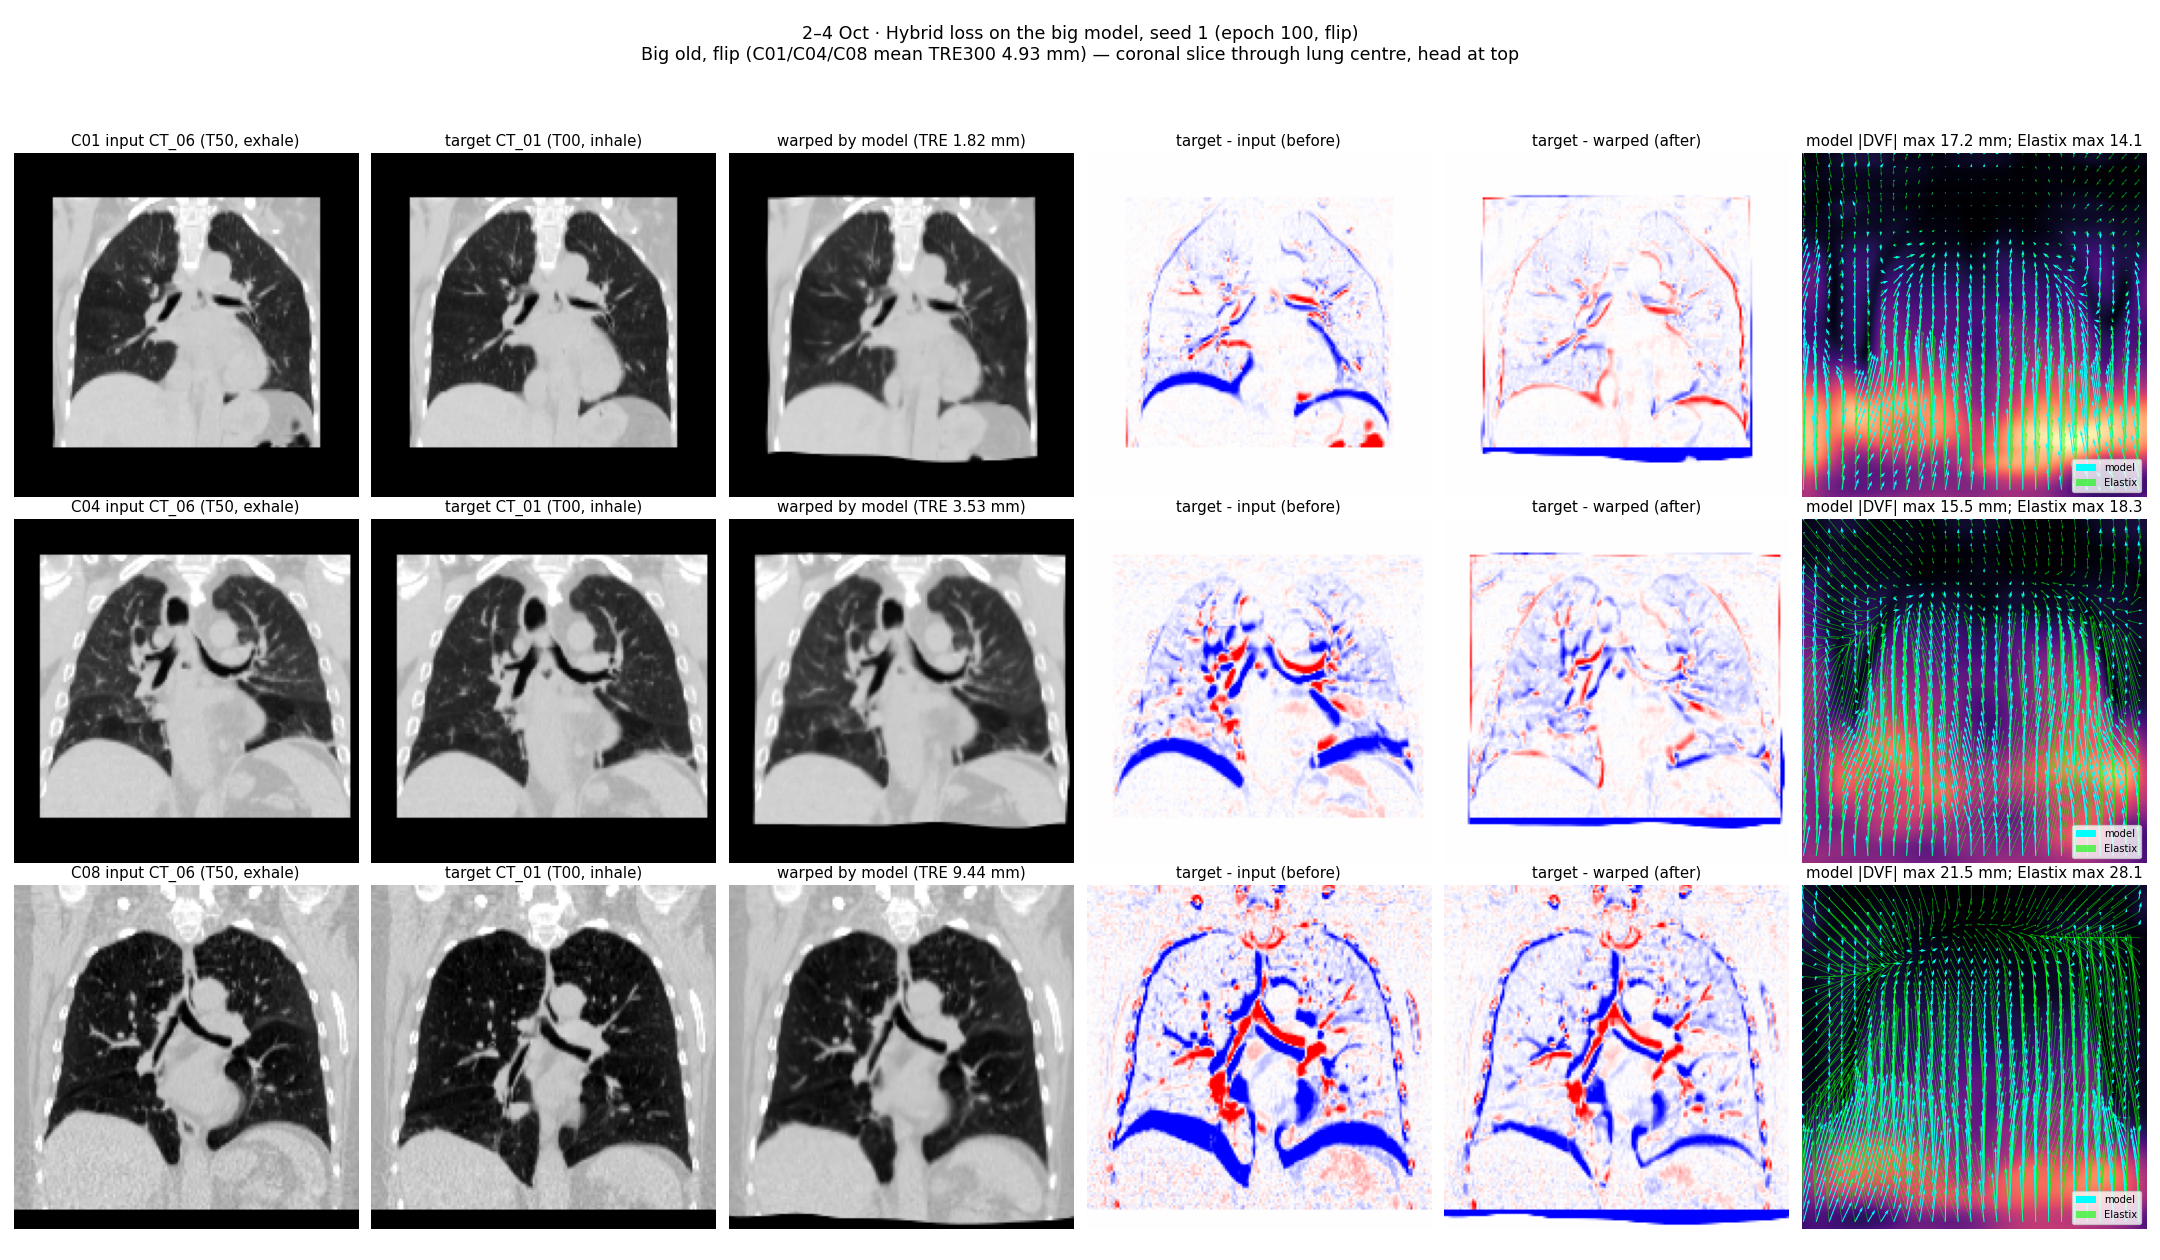
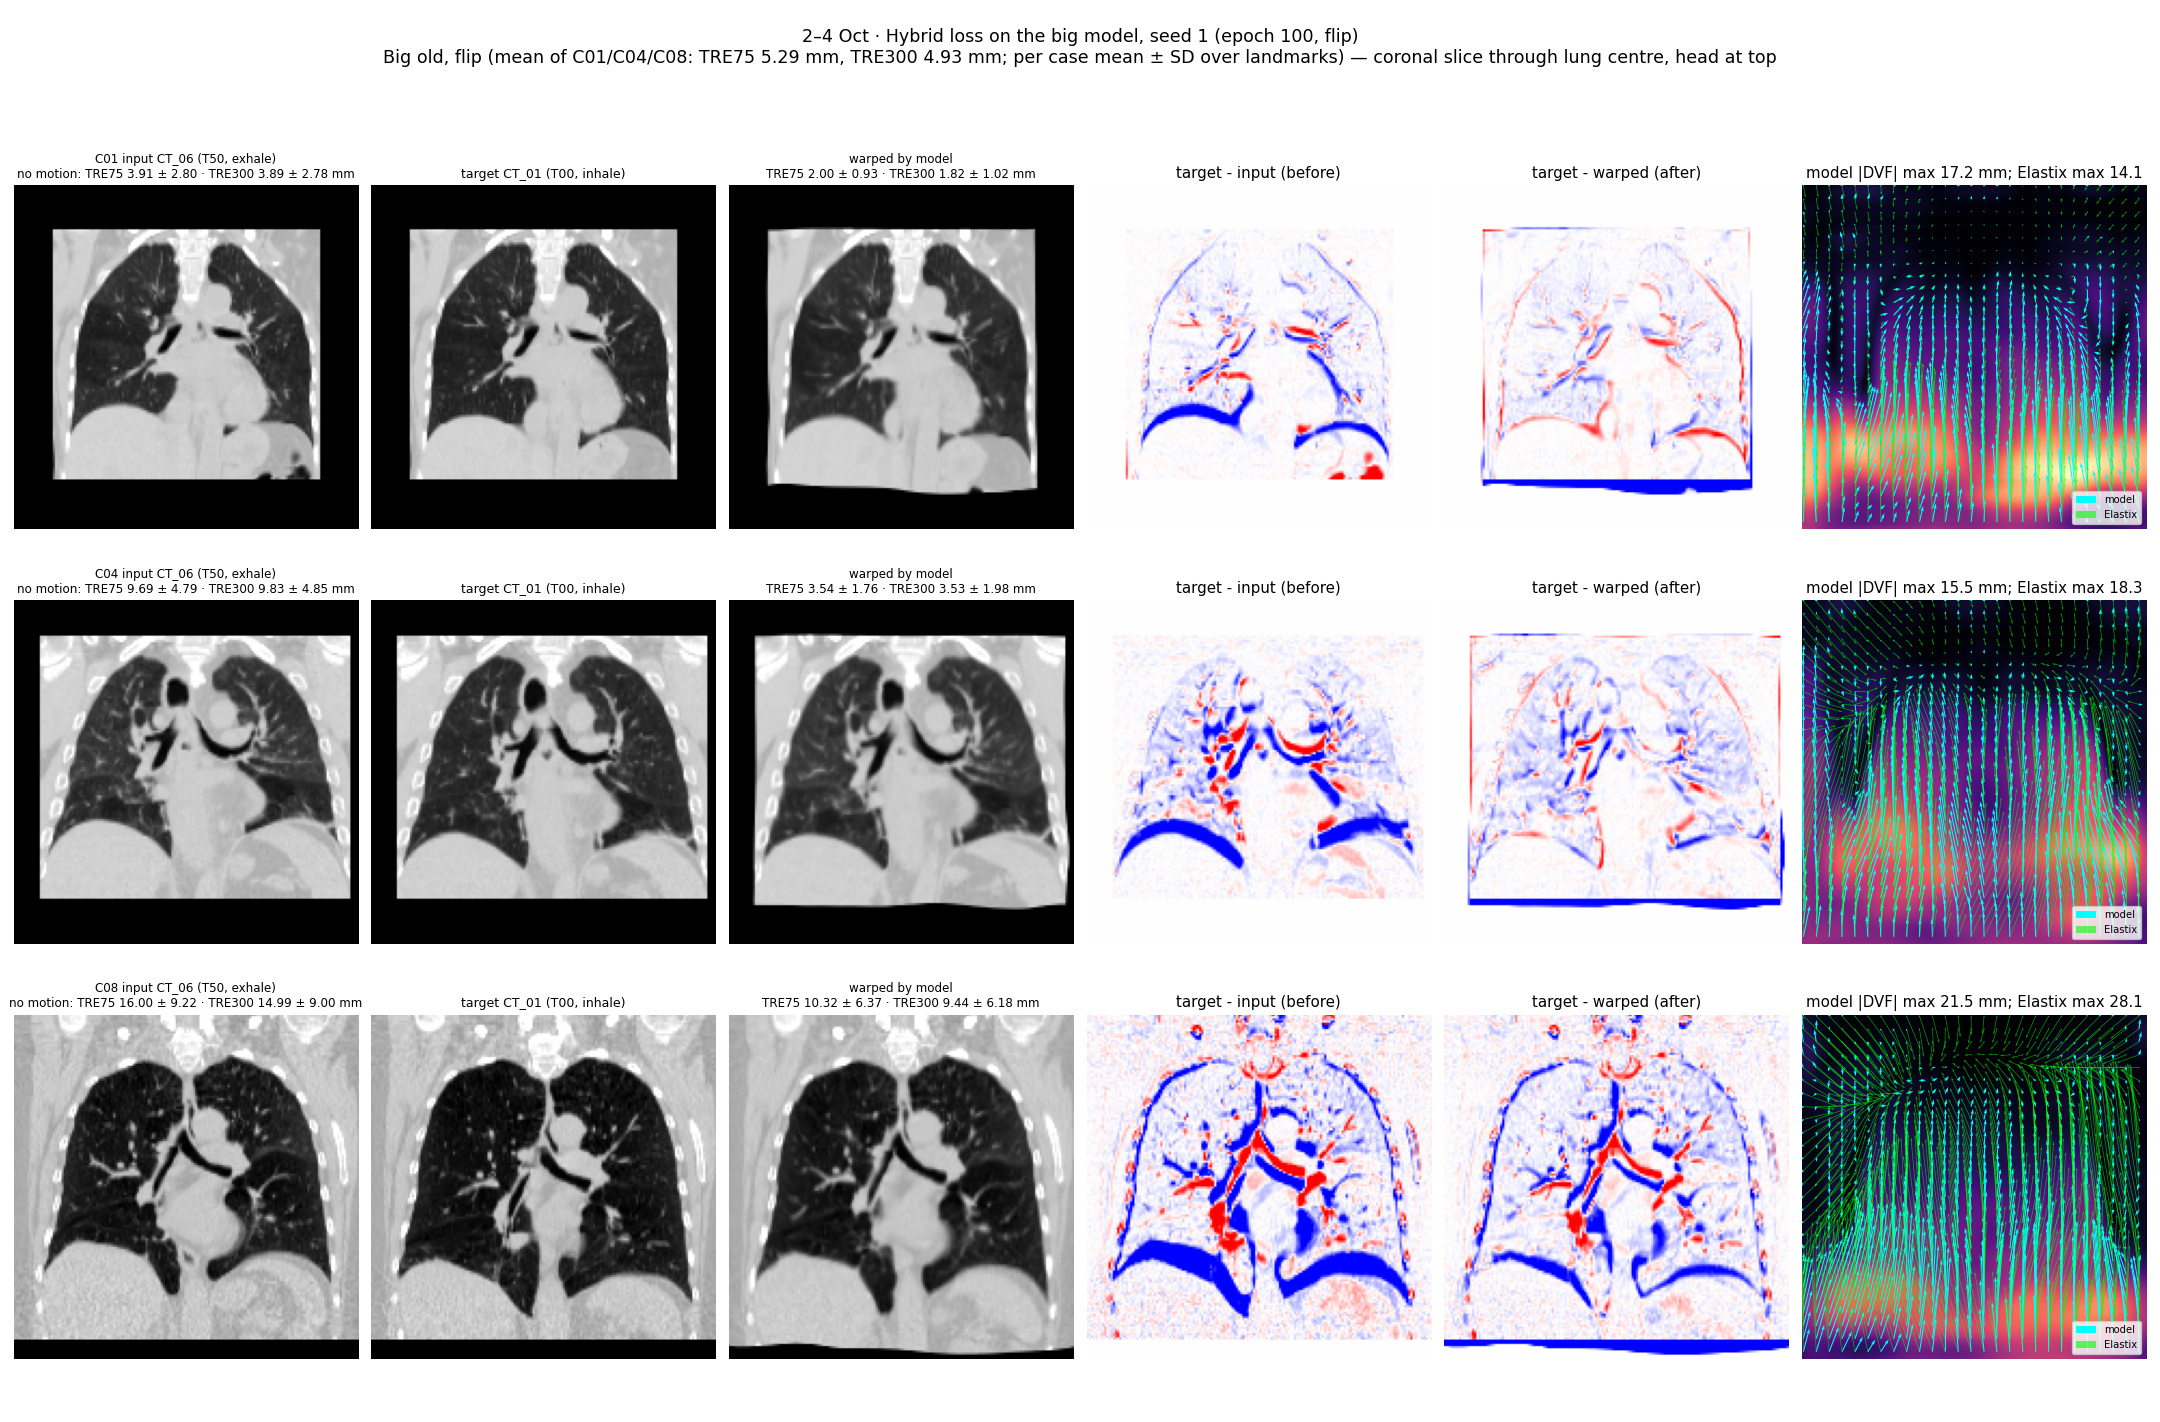
Slides: TRE75 and TRE300 (mean ± SD) on timeline figures and tables

diff --git a/DIR EXPERIMENTS/slides/make_timeline_figs.py b/DIR EXPERIMENTS/slides/make_timeline_figs.py
@@ -68,7 +68,7 @@ def load_cases():
         reg = binary_dilation(p["lung_iso"], iterations=5)
         z = int(np.round(np.where(p["hu_iso"] < -400)[0].mean()))  # same slice rule as slide 5b (explain_figs.py)
         D[c] = {"p": p, "t00": t00, "reg": reg, "z": z, "el": v2.elastix_on_iso(p),
-                "tre0": v2.score_set(np.zeros((*p["hu_iso"].shape, 3), np.float32), c, "300", p)["registered"]["mean"]}
+                "tre0": tre(np.zeros((*p["hu_iso"].shape, 3), np.float32), c, p)}
     return D
 
 
@@ -89,16 +89,25 @@ def predict_all(D):
     return U
 
 
+def tre(u, c, p):
+    """{'75': (mean, sd), '300': (mean, sd)} in mm over the case's landmarks."""
+    return {k: (r["mean"], r["std"]) for k in ("75", "300") for r in [v2.score_set(u, c, k, p)["registered"]]}
+
+
 def row_stats(D, c, u):
     d = D[c]
     w = warp(d["p"]["hu_iso"], u)
-    return w, v2.score_set(u, c, "300", d["p"])["registered"]["mean"], ncc(w[d["reg"]], d["t00"][d["reg"]])
+    return w, tre(u, c, d["p"]), ncc(w[d["reg"]], d["t00"][d["reg"]])
+
+
+def pm(t):
+    return f"{t[0]:.2f} ± {t[1]:.2f}"
 
 
 def figure(D, label, ufn, title, fname):
     """Slide-5b layout (as analysis_2026-10-03/explain_figs.py), one model, rows C01/C04/C08.
     Columns: input T50, target T00, warped by model, target - input, target - warped, |u| with model/Elastix arrows."""
-    H = 4.4 * len(CASES) + 0.8  # +0.8 in for the two-line title
+    H = 5.0 * len(CASES) + 0.8  # +0.8 in for the two-line title
     fig, ax = plt.subplots(len(CASES), 6, figsize=(24, H), squeeze=False)
     stats = []
     kw = dict(cmap="gray", vmin=-1000, vmax=300)
@@ -106,11 +115,13 @@ def figure(D, label, ufn, title, fname):
         d = D[c]
         z, el, inp, tgt = d["z"], d["el"], d["p"]["hu_iso"], d["t00"]
         u = ufn(c)
-        w, t300, nc = row_stats(D, c, u)
-        stats.append({"case": c, "row": label, "tre300": round(t300, 3), "lung_ncc": round(nc, 4)})
-        ax[i, 0].imshow(inp[z], **kw); ax[i, 0].set_title(f"C{c:02d} input CT_06 (T50, exhale)")
-        ax[i, 1].imshow(tgt[z], **kw); ax[i, 1].set_title("target CT_01 (T00, inhale)")
-        ax[i, 2].imshow(w[z], **kw); ax[i, 2].set_title(f"warped by model (TRE {t300:.2f} mm)")
+        w, t, nc = row_stats(D, c, u)
+        stats.append({"case": c, "row": label, "tre75": round(t["75"][0], 3), "tre75_sd": round(t["75"][1], 3),
+                      "tre300": round(t["300"][0], 3), "tre300_sd": round(t["300"][1], 3), "lung_ncc": round(nc, 4)})
+        ax[i, 0].imshow(inp[z], **kw); ax[i, 0].set_title(f"C{c:02d} input CT_06 (T50, exhale)\nno motion: TRE75 {pm(d['tre0']['75'])} · "
+                                          f"TRE300 {pm(d['tre0']['300'])} mm", fontsize=9.5)
+        ax[i, 1].imshow(tgt[z], **kw); ax[i, 1].set_title("target CT_01 (T00, inhale)", fontsize=10)
+        ax[i, 2].imshow(w[z], **kw); ax[i, 2].set_title(f"warped by model\nTRE75 {pm(t['75'])} · TRE300 {pm(t['300'])} mm", fontsize=9.5)
         ax[i, 3].imshow(tgt[z] - inp[z], cmap="bwr", vmin=-600, vmax=600); ax[i, 3].set_title("target - input (before)")
         ax[i, 4].imshow(tgt[z] - w[z], cmap="bwr", vmin=-600, vmax=600)
         ax[i, 4].set_title("target - warped (after)")
@@ -127,10 +138,10 @@ def figure(D, label, ufn, title, fname):
         ax[i, 5].legend(loc="lower right", fontsize=8)
         for a in ax[i]:
             a.axis("off")
-    mean = np.mean([s["tre300"] for s in stats])
-    fig.suptitle(f"{title}\n{label} (C01/C04/C08 mean TRE300 {mean:.2f} mm) — coronal slice through lung centre, "
-                 "head at top", fontsize=14)
-    fig.tight_layout(rect=(0, 0, 1, 1 - 0.8 / H))
+    m75, m300 = (np.mean([s[k] for s in stats]) for k in ("tre75", "tre300"))
+    fig.suptitle(f"{title}\n{label} (mean of C01/C04/C08: TRE75 {m75:.2f} mm, TRE300 {m300:.2f} mm; per case "
+                 "mean ± SD over landmarks) — coronal slice through lung centre, head at top", fontsize=14)
+    fig.tight_layout(rect=(0, 0, 1, 1 - 0.8 / H), h_pad=2.0)
     fig.savefig(FIGS / fname, dpi=90)
     plt.close(fig)
     print("wrote", fname, flush=True)

diff --git a/DIR EXPERIMENTS/slides/make_slides.py b/DIR EXPERIMENTS/slides/make_slides.py
@@ -58,7 +58,9 @@ def tl(step):
     rows = TS[step]; labs = list(dict.fromkeys(r["row"] for r in rows)); cs = (1, 4, 8)
     out = "| | " + " | ".join(f"C{c:02d} {l}" for c in cs for l in labs) + " |\n|---|" + "---|" * (len(cs) * len(labs)) + "\n"
     g = {(r["case"], r["row"]): r for r in rows}
-    out += "| TRE300 (mm) | " + " | ".join(f"{g[(c, l)]['tre300']:.2f}" for c in cs for l in labs) + " |\n"
+    pm = lambda r, k: f"{r[k]:.2f} ± {r[k + '_sd']:.2f}"
+    out += "| TRE75 (mm, mean ± SD) | " + " | ".join(pm(g[(c, l)], "tre75") for c in cs for l in labs) + " |\n"
+    out += "| TRE300 (mm, mean ± SD) | " + " | ".join(pm(g[(c, l)], "tre300") for c in cs for l in labs) + " |\n"
     out += "| Lung NCC | " + " | ".join(f"{g[(c, l)]['lung_ncc']:.3f}" for c in cs for l in labs) + " |"
     return out
 fig, ax = plt.subplots(figsize=(8, 4)); ideas = ["Push labels", "Combine old models", "EPE loss", "Brightness match", "Mirror (flip)", "Hybrid loss (small)"]; g = [-0.09, 0.02, -0.06, 0.39, -0.18, -0.30]
@@ -248,7 +250,7 @@ Each picture uses the **same layout as slide 5b**: rows **C01** (shallow breathe
 
 1. **Input T50** (breathed-out CT).
 2. **Target T00** (breathed-in CT).
-3. **T50 warped by the model** toward T00, with that model's TRE300 for the case.
+3. **T50 warped by the model** toward T00, with that model's TRE75 and TRE300 for the case (mean ± SD over the 75 / 300 landmarks). Column 1 gives the same numbers with no motion.
 4. **Target − input (before)**: red/blue = what has to move.
 5. **Target − warped (after)**: the closer to white, the better the match (lung NCC is in the table below).
 6. **Model motion |u|** with arrows: **cyan = model, green = Elastix** (the label).

diff --git a/DIR EXPERIMENTS/slides/SLIDES_CONTENT.md b/DIR EXPERIMENTS/slides/SLIDES_CONTENT.md
@@ -150,7 +150,7 @@ Each picture uses the **same layout as slide 5b**: rows **C01** (shallow breathe
 
 1. **Input T50** (breathed-out CT).
 2. **Target T00** (breathed-in CT).
-3. **T50 warped by the model** toward T00, with that model's TRE300 for the case.
+3. **T50 warped by the model** toward T00, with that model's TRE75 and TRE300 for the case (mean ± SD over the 75 / 300 landmarks). Column 1 gives the same numbers with no motion.
 4. **Target − input (before)**: red/blue = what has to move.
 5. **Target − warped (after)**: the closer to white, the better the match (lung NCC is in the table below).
 6. **Model motion |u|** with arrows: **cyan = model, green = Elastix** (the label).
@@ -163,7 +163,8 @@ This first picture is **Elastix itself**: the best a model could do by copying i
 
 | | C01 Elastix | C04 Elastix | C08 Elastix |
 |---|---|---|---|
-| TRE300 (mm) | 1.13 | 1.78 | 3.32 |
+| TRE75 (mm, mean ± SD) | 1.26 ± 0.73 | 1.91 ± 1.09 | 3.77 ± 2.13 |
+| TRE300 (mm, mean ± SD) | 1.13 ± 0.59 | 1.78 ± 1.24 | 3.32 ± 1.87 |
 | Lung NCC | 0.972 | 0.941 | 0.875 |
 
 ---
@@ -177,7 +178,8 @@ This first picture is **Elastix itself**: the best a model could do by copying i
 
 | | C01 A′-full160 | C04 A′-full160 | C08 A′-full160 |
 |---|---|---|---|
-| TRE300 (mm) | 3.16 | 4.14 | 8.51 |
+| TRE75 (mm, mean ± SD) | 3.25 ± 1.80 | 4.06 ± 2.50 | 9.14 ± 5.93 |
+| TRE300 (mm, mean ± SD) | 3.16 ± 1.80 | 4.14 ± 2.43 | 8.51 ± 5.77 |
 | Lung NCC | 0.928 | 0.923 | 0.853 |
 
 ---
@@ -191,7 +193,8 @@ This first picture is **Elastix itself**: the best a model could do by copying i
 
 | | C01 TCIA-lite | C04 TCIA-lite | C08 TCIA-lite |
 |---|---|---|---|
-| TRE300 (mm) | 2.37 | 4.29 | 8.84 |
+| TRE75 (mm, mean ± SD) | 2.48 ± 1.28 | 4.28 ± 2.30 | 9.56 ± 6.40 |
+| TRE300 (mm, mean ± SD) | 2.37 ± 1.32 | 4.29 ± 2.44 | 8.84 ± 6.24 |
 | Lung NCC | 0.956 | 0.927 | 0.869 |
 
 ---
@@ -208,7 +211,8 @@ This first picture is **Elastix itself**: the best a model could do by copying i
 
 | | C01 Big, plain | C01 Big, flip | C04 Big, plain | C04 Big, flip | C08 Big, plain | C08 Big, flip |
 |---|---|---|---|---|---|---|
-| TRE300 (mm) | 1.90 | 1.82 | 4.05 | 3.53 | 9.99 | 9.44 |
+| TRE75 (mm, mean ± SD) | 2.10 ± 1.26 | 2.00 ± 0.93 | 4.11 ± 1.72 | 3.54 ± 1.76 | 10.89 ± 6.77 | 10.32 ± 6.37 |
+| TRE300 (mm, mean ± SD) | 1.90 ± 1.16 | 1.82 ± 1.01 | 4.05 ± 1.79 | 3.53 ± 1.98 | 9.99 ± 6.62 | 9.44 ± 6.18 |
 | Lung NCC | 0.970 | 0.969 | 0.933 | 0.939 | 0.851 | 0.853 |
 
 ---
@@ -224,7 +228,8 @@ This first picture is **Elastix itself**: the best a model could do by copying i
 
 | | C01 Small, old loss | C01 Small, hybrid | C04 Small, old loss | C04 Small, hybrid | C08 Small, old loss | C08 Small, hybrid |
 |---|---|---|---|---|---|---|
-| TRE300 (mm) | 2.37 | 2.09 | 4.29 | 3.73 | 8.84 | 7.90 |
+| TRE75 (mm, mean ± SD) | 2.48 ± 1.28 | 2.34 ± 1.54 | 4.28 ± 2.30 | 3.61 ± 1.96 | 9.56 ± 6.40 | 8.46 ± 5.90 |
+| TRE300 (mm, mean ± SD) | 2.37 ± 1.32 | 2.09 ± 1.41 | 4.29 ± 2.44 | 3.73 ± 2.15 | 8.84 ± 6.24 | 7.90 ± 5.59 |
 | Lung NCC | 0.956 | 0.962 | 0.927 | 0.918 | 0.869 | 0.874 |
 
 ---
@@ -240,7 +245,8 @@ This first picture is **Elastix itself**: the best a model could do by copying i
 
 | | C01 Big old, flip | C01 Big hybrid, flip | C04 Big old, flip | C04 Big hybrid, flip | C08 Big old, flip | C08 Big hybrid, flip |
 |---|---|---|---|---|---|---|
-| TRE300 (mm) | 1.82 | 2.17 | 3.53 | 2.94 | 9.44 | 8.41 |
+| TRE75 (mm, mean ± SD) | 2.00 ± 0.93 | 2.45 ± 1.23 | 3.54 ± 1.76 | 2.77 ± 1.60 | 10.32 ± 6.37 | 9.13 ± 6.09 |
+| TRE300 (mm, mean ± SD) | 1.82 ± 1.01 | 2.17 ± 1.17 | 3.53 ± 1.98 | 2.94 ± 1.75 | 9.44 ± 6.18 | 8.41 ± 5.86 |
 | Lung NCC | 0.969 | 0.953 | 0.939 | 0.941 | 0.853 | 0.870 |
 
 ---
@@ -256,7 +262,8 @@ This first picture is **Elastix itself**: the best a model could do by copying i
 
 | | C01 Big old s2, flip | C01 Big hybrid s2, flip | C04 Big old s2, flip | C04 Big hybrid s2, flip | C08 Big old s2, flip | C08 Big hybrid s2, flip |
 |---|---|---|---|---|---|---|
-| TRE300 (mm) | 2.07 | 1.96 | 3.52 | 3.57 | 9.49 | 10.44 |
+| TRE75 (mm, mean ± SD) | 2.29 ± 1.24 | 2.08 ± 1.00 | 3.50 ± 1.93 | 3.51 ± 2.15 | 10.36 ± 6.63 | 11.21 ± 7.26 |
+| TRE300 (mm, mean ± SD) | 2.07 ± 1.17 | 1.96 ± 1.02 | 3.52 ± 1.99 | 3.57 ± 2.35 | 9.49 ± 6.38 | 10.44 ± 7.07 |
 | Lung NCC | 0.964 | 0.961 | 0.943 | 0.940 | 0.861 | 0.856 |
 
 ---
@@ -271,7 +278,8 @@ This first picture is **Elastix itself**: the best a model could do by copying i
 
 | | C01 Combination | C04 Combination | C08 Combination |
 |---|---|---|---|
-| TRE300 (mm) | 1.67 | 3.44 | 8.51 |
+| TRE75 (mm, mean ± SD) | 1.88 ± 0.96 | 3.44 ± 1.84 | 9.16 ± 6.13 |
+| TRE300 (mm, mean ± SD) | 1.67 ± 0.93 | 3.44 ± 2.02 | 8.51 ± 5.92 |
 | Lung NCC | 0.976 | 0.940 | 0.873 |
 
 ---
